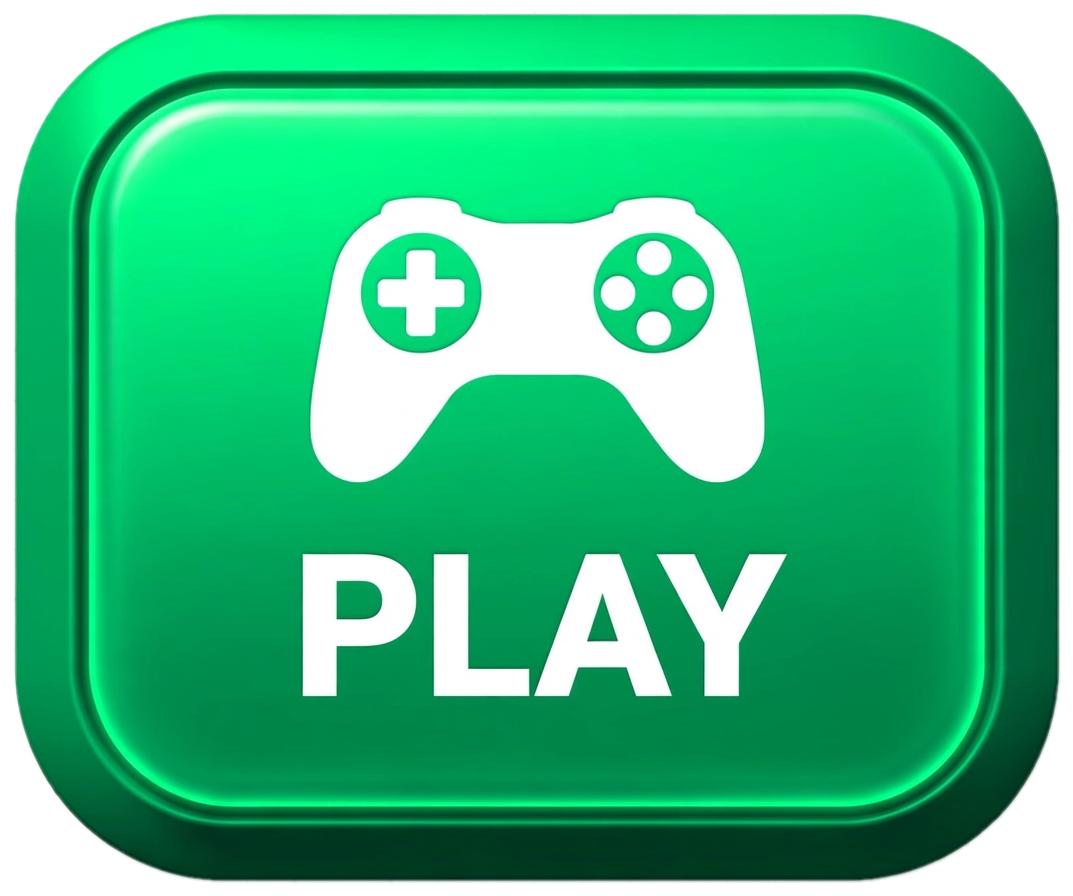
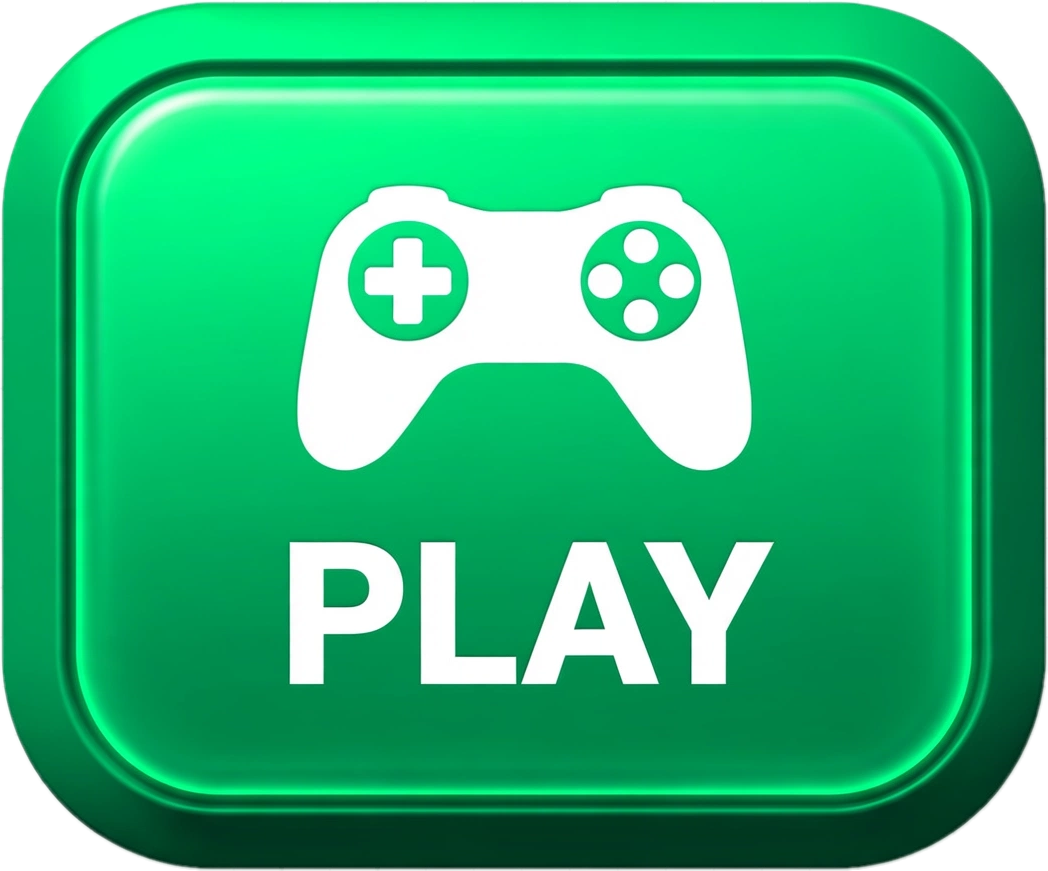
feat(ui): update main menu button layout and assets
Refactor the main menu action button container to use a flex layout with tighter spacing. Update the spectate, play, and more button assets to improve visual consistency and alignment.

diff --git a/src/components/MainMenu.tsx b/src/components/MainMenu.tsx
@@ -628,14 +628,14 @@ export function MainMenu({ onPlay, onSkins, onSettings, onSeason }: MainMenuProp
 
         {/* ACTION BUTTONS (SPECTATE, PLAY, MORE) + MORE DRAWER - Locked at center of screen */}
         <div className="w-full flex flex-col items-center pointer-events-auto">
-          {/* Action Buttons Row - Larger & closer together like Agar.io / Sarok.io */}
-          <div className="grid grid-cols-3 gap-1.5 sm:gap-2 w-full max-w-[440px] sm:max-w-[500px] md:max-w-[540px] mx-auto pointer-events-auto">
+          {/* Action Buttons Row - Nestled closely together */}
+          <div className="flex items-center justify-center gap-0.5 sm:gap-1 w-full max-w-[340px] sm:max-w-[390px] md:max-w-[430px] mx-auto pointer-events-auto">
             {/* SPECTATE BUTTON */}
             {renderEditableItem(
               'spectate',
               <TouchSafeButton 
                 onClick={() => onPlay('classic')}
-                className="w-full h-[84px] sm:h-[96px] md:h-[104px] flex items-center justify-center select-none hud-tap pointer-events-auto"
+                className="w-full h-[80px] sm:h-[92px] md:h-[100px] flex items-center justify-end select-none hud-tap pointer-events-auto"
                 title="Spectate"
               >
                 <img
@@ -646,7 +646,7 @@ export function MainMenu({ onPlay, onSkins, onSettings, onSeason }: MainMenuProp
                   draggable={false}
                 />
               </TouchSafeButton>,
-              'w-full flex pointer-events-auto'
+              'flex-1 flex justify-end pointer-events-auto'
             )}
             
             {/* PLAY BUTTON */}
@@ -654,7 +654,7 @@ export function MainMenu({ onPlay, onSkins, onSettings, onSeason }: MainMenuProp
               'play',
               <TouchSafeButton 
                 onClick={() => onPlay('classic')}
-                className="w-full h-[84px] sm:h-[96px] md:h-[104px] flex items-center justify-center select-none hud-tap pointer-events-auto"
+                className="w-full h-[80px] sm:h-[92px] md:h-[100px] flex items-center justify-center select-none hud-tap pointer-events-auto"
               >
                 <img
                   src={playBtnImg}
@@ -664,7 +664,7 @@ export function MainMenu({ onPlay, onSkins, onSettings, onSeason }: MainMenuProp
                   draggable={false}
                 />
               </TouchSafeButton>,
-              'w-full flex pointer-events-auto'
+              'flex-1 flex justify-center pointer-events-auto'
             )}
 
             {/* MORE BUTTON */}
@@ -672,7 +672,7 @@ export function MainMenu({ onPlay, onSkins, onSettings, onSeason }: MainMenuProp
               'more',
               <TouchSafeButton 
                 onClick={() => setIsMoreOpen(prev => !prev)}
-                className="w-full h-[84px] sm:h-[96px] md:h-[104px] flex items-center justify-center select-none hud-tap pointer-events-auto"
+                className="w-full h-[80px] sm:h-[92px] md:h-[100px] flex items-center justify-start select-none hud-tap pointer-events-auto"
               >
                 <img
                   src={moreBtnImg}
@@ -682,7 +682,7 @@ export function MainMenu({ onPlay, onSkins, onSettings, onSeason }: MainMenuProp
                   draggable={false}
                 />
               </TouchSafeButton>,
-              'w-full flex pointer-events-auto'
+              'flex-1 flex justify-start pointer-events-auto'
             )}
           </div>
 
@@ -714,7 +714,7 @@ export function MainMenu({ onPlay, onSkins, onSettings, onSeason }: MainMenuProp
                 }}
                 className="pointer-events-auto w-full overflow-hidden select-none"
               >
-                <div className="grid grid-cols-3 gap-1.5 sm:gap-2 w-full max-w-[440px] sm:max-w-[500px] md:max-w-[540px] mx-auto pt-2 pb-0.5">
+                <div className="grid grid-cols-3 gap-1 sm:gap-1.5 w-full max-w-[340px] sm:max-w-[390px] md:max-w-[430px] mx-auto pt-2 pb-0.5">
                   {/* 1. BOTS: Private server, bots only, no friends */}
                   <TouchSafeButton
                     onClick={() => onPlay('bots')}
